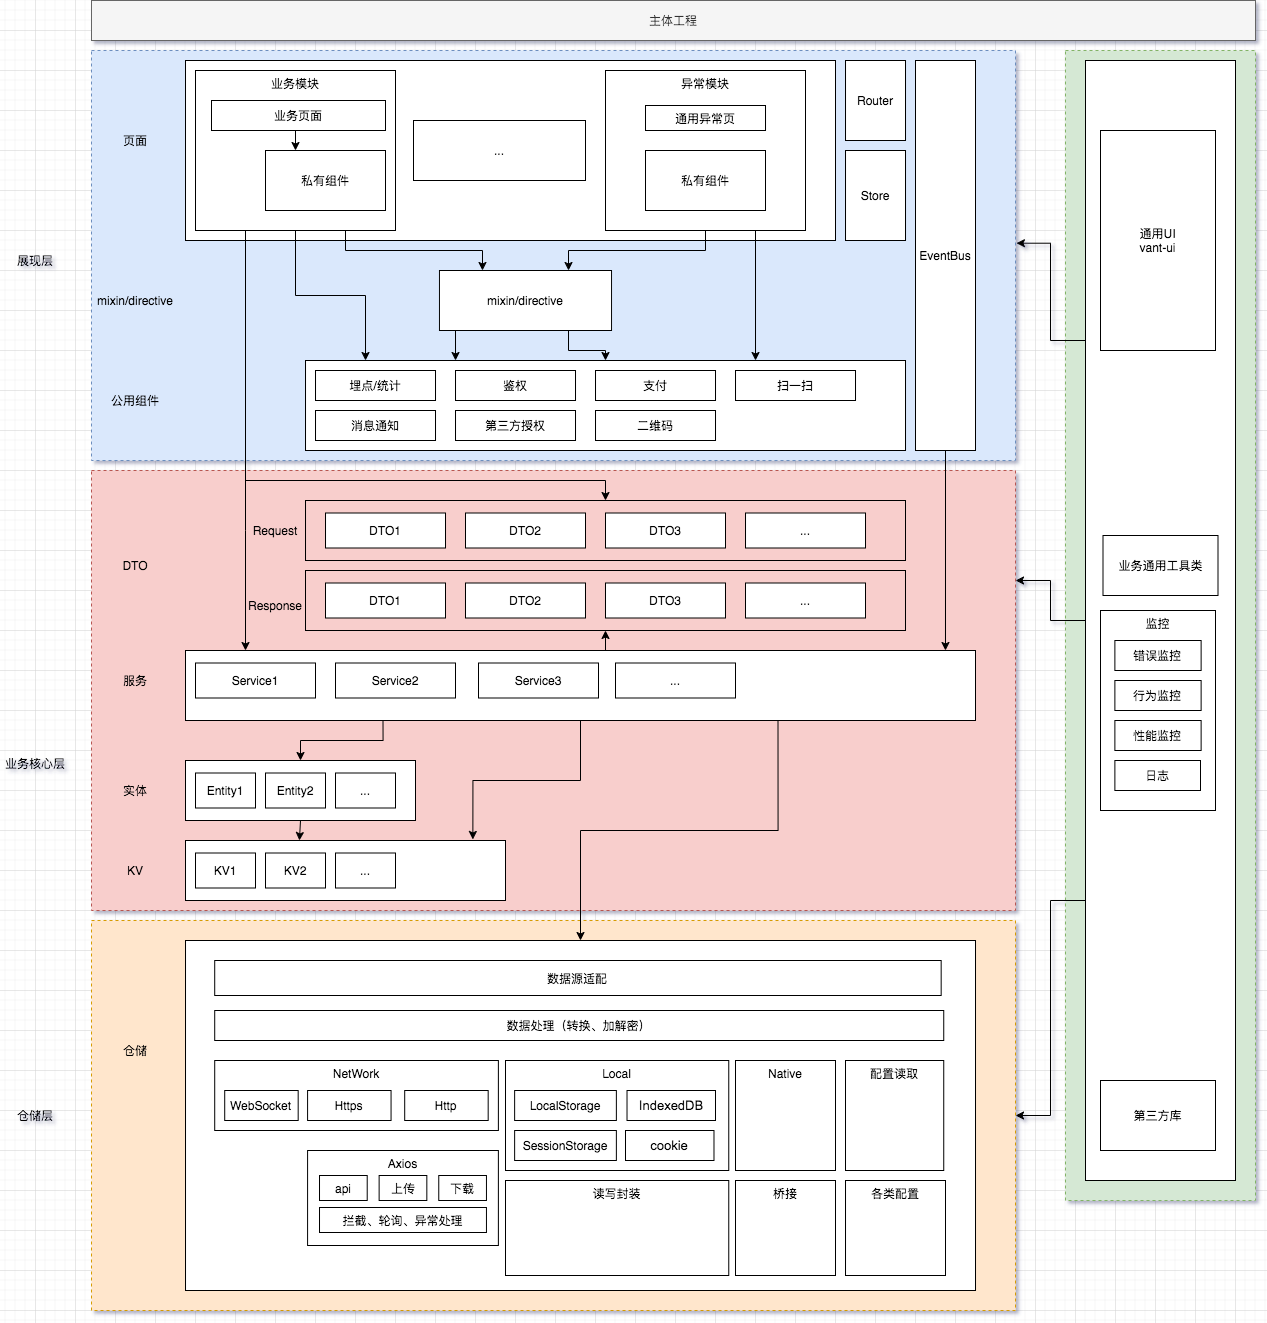
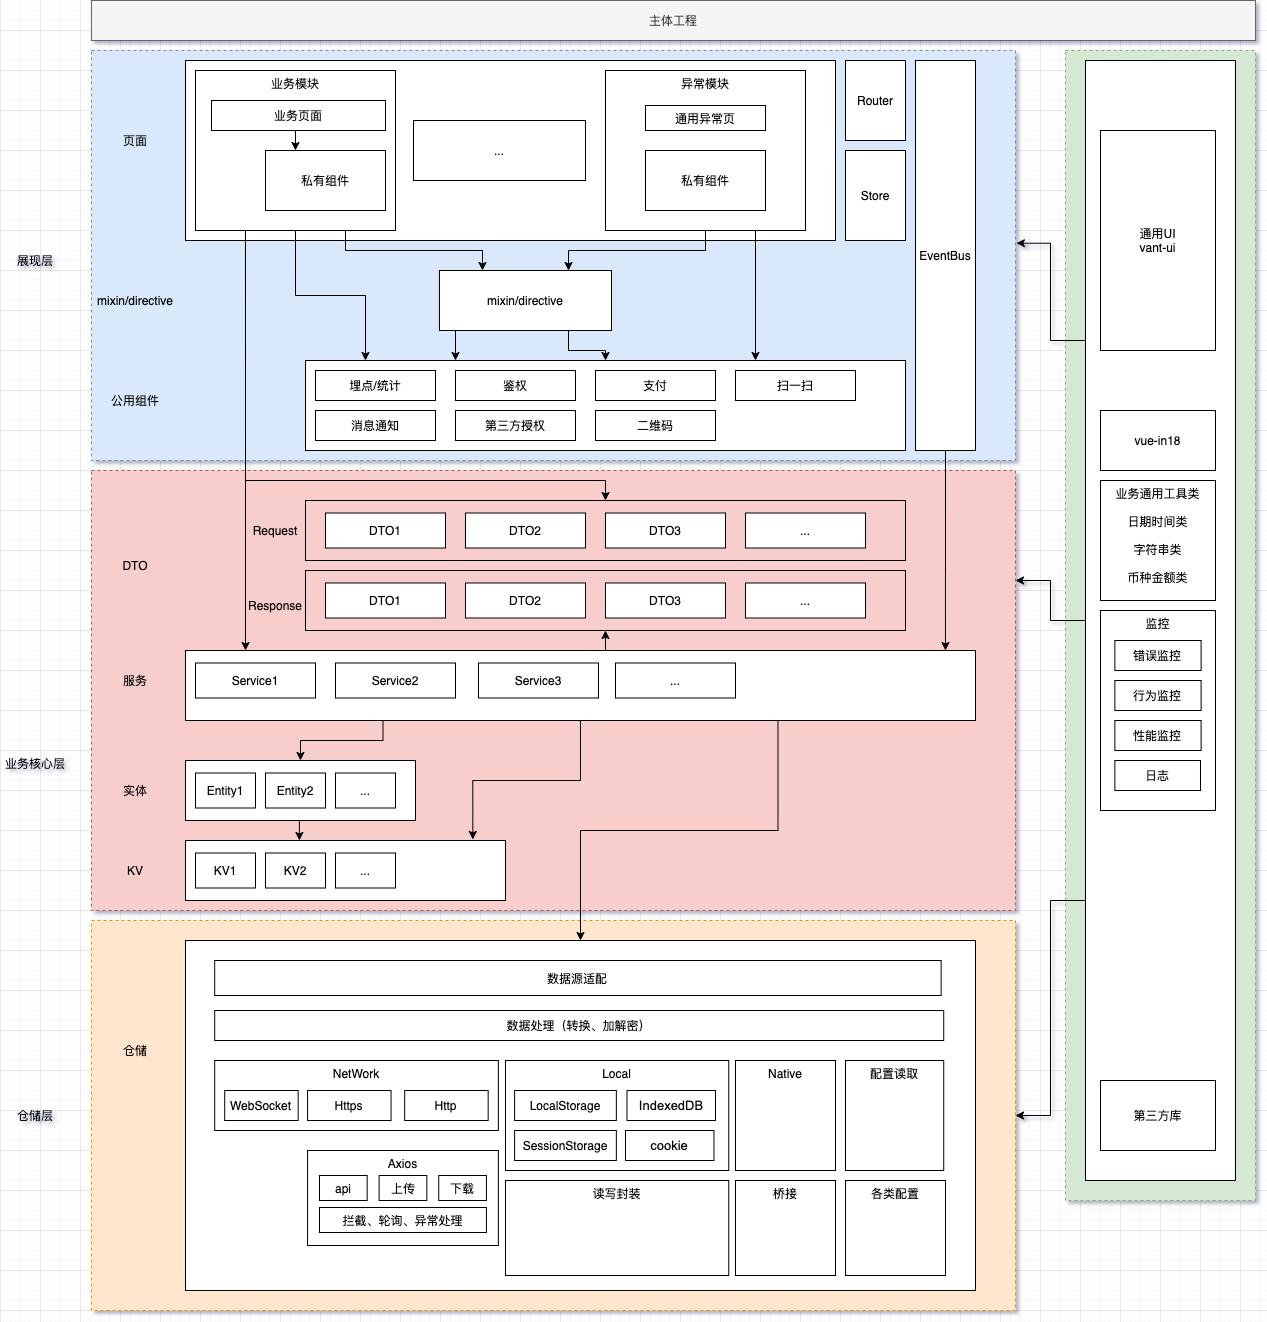
增加代办事项列表，更新h5图

diff --git a/README.md b/README.md
@@ -18,7 +18,72 @@ npm install --registry=https://registry.npm.taobao.org
 # 本地开发 启动项目
 npm run serve
 ```
+
 ## 架构图如下
+
 <img src="./doc/h5-arch.png" style="zoom: 67%;" />
 
+## 主要功能
 
+# 版本发布及工具
+
+- [x] 1、doc
+- [x] 2、mock
+- [ ] 3、deploy
+- [ ] 4、环境切换
+- [ ] 5、提交前代码检查
+- [ ] 6、提交前圈复杂度检查
+- [ ] 7、提交前文件命名检查
+- [ ] 8、提交前文件目录检查
+- [ ] 9、提交前重要版本号检查
+- [ ] 10、提交前commit-msg检查
+- [ ] 11、cli-plugin-eslint 封装eslint需要的包
+- [ ] 12、cli-plugin-webpack 封装webpack需要的包
+- [ ] 13、cli-plugin-unitest 封装unitest需要的包
+
+# 展现层
+
+- [ ] 1、统一Loading 封装
+- [ ] 2、异常页面汇总 封装
+- [ ] 3、鉴权 封装
+- [ ] 4、国际化 封装
+
+# 业务核心层
+
+
+# 仓储层
+
+- [ ] 1、Axios 底层封装
+- [ ] 2、Native 底层封装
+- [ ] 3、Local 底层封装
+
+# 工具类
+
+- [ ] 1、日期时间格式化
+- [ ] 2、字符串常用格式化
+- [ ] 3、金额币种格式化
+
+# 监控
+
+- [ ] 1、性能监控
+- [ ] 2、错误监控
+- [ ] 3、行为监控
+- [ ] 4、上报优化
+
+## vscode插件
+
+```text
+1、Abracadabra, refactor this! 重构插件
+2、Debugger for Chrome 调试插件
+3、ESlint 代码检查插件
+4、markdownlint 文档检查插件
+5、Node TDD 测试驱动开发插件
+6、npm
+7、npm Intellisense
+8、Path Intellisense
+9、REST Client
+10、Vetur
+11、vscode-icons
+12、EditorConfig for VS Code
+13、Code Runner
+```
